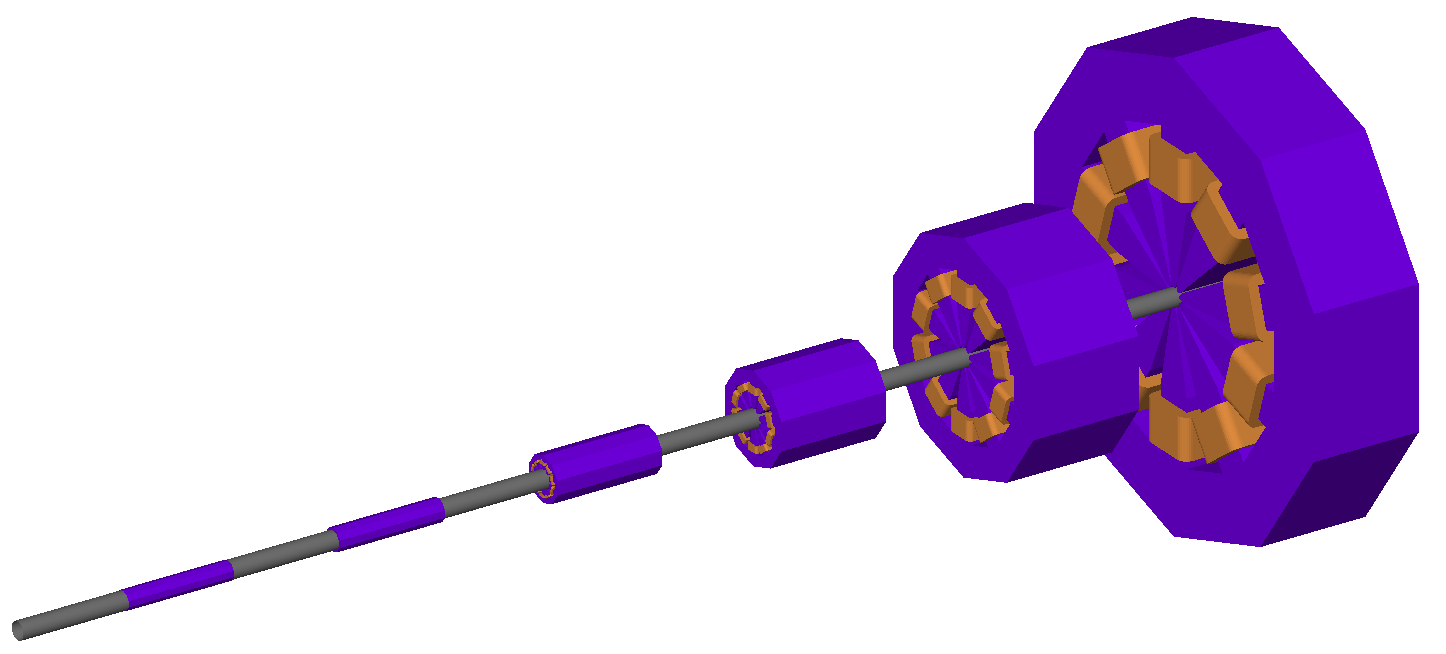
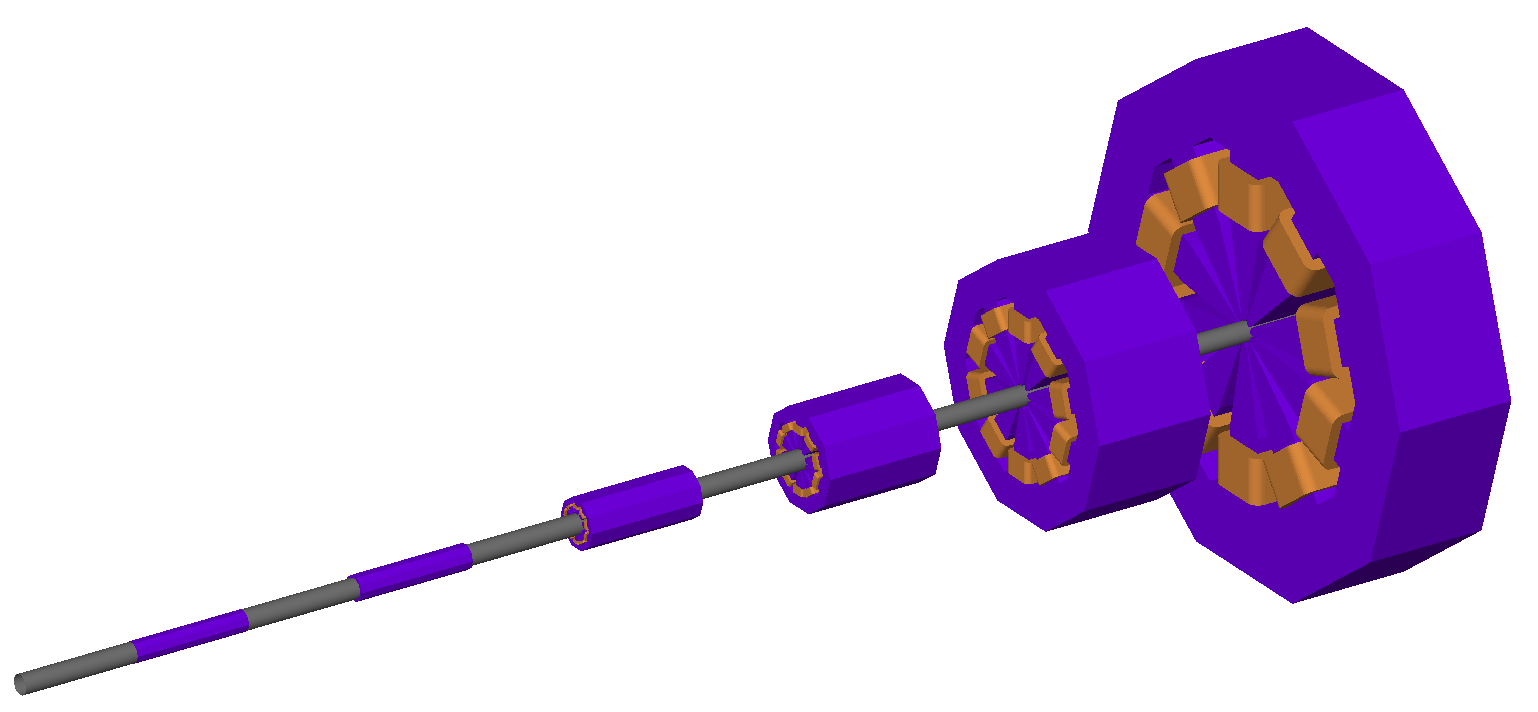
Parameterise the polgon starting angle and offset for pole intersection - fixes location of points in yoke w.r.t. poles. Fix for both facet and facetcrop geometries
Former-commit-id: 58ff85eb7268fc6a7c7e4a286432f23f0f0d6d54

diff --git a/src/BDSMagnetOuterFactoryPolesFacetCommon.cc b/src/BDSMagnetOuterFactoryPolesFacetCommon.cc
@@ -17,6 +17,12 @@ BDSMagnetOuterFactoryPolesFacetCommon::BDSMagnetOuterFactoryPolesFacetCommon(G4d
 BDSMagnetOuterFactoryPolesFacetCommon::~BDSMagnetOuterFactoryPolesFacetCommon()
 {;}
 
+void BDSMagnetOuterFactoryPolesFacetCommon::CalculateStartAngles()
+{
+  polyStartAngle = 0;
+  poleIntersectionStartAngle = -segmentAngle*0.5 - CLHEP::halfpi;
+}
+
 void BDSMagnetOuterFactoryPolesFacetCommon::CreateYokeAndContainerSolid(G4String name,
 									G4double length,
 									G4int    order,
@@ -32,11 +38,11 @@ void BDSMagnetOuterFactoryPolesFacetCommon::CreateYokeAndContainerSolid(G4String
   G4double zeroRadii[2]    = {0,0};
   G4double poleEnd         = yokeStartRadius - lengthSafetyLarge;
   G4double poleEndRadii[2] = {poleEnd,          poleEnd};
-
-  const G4double polyStartAngle = CLHEP::halfpi;
+  
+  CalculateStartAngles();
   
   // The start angle for G4Polyhedra lies on a vertex / point and is at the top
-  // in the positive y direction. 
+  // in the positive y direction.
   yokeSolid = new G4Polyhedra(name + "_yoke_solid",    // name
 			      polyStartAngle,          // start angle
 			      CLHEP::twopi,            // sweep angle
@@ -47,18 +53,15 @@ void BDSMagnetOuterFactoryPolesFacetCommon::CreateYokeAndContainerSolid(G4String
 			      outerRadii);
 
   // pole intersection solid
-  // note the start angle is 0 here instead of polyStartAngle as a pole is always
-  // built upright and then rotated to the correct position.
   poleIntersectionSolid = new G4Polyhedra(name + "_yoke_intersection_solid", // name
-					  segmentAngle*0.5,                  // start angle
+					  poleIntersectionStartAngle,        // start angle
 					  CLHEP::twopi,                      // sweep angle
 					  factor*2*order,                    // number of sides
 					  2,                                 // number of z planes
 					  zPlanesLong,                       // z plane z coordinates
 					  zeroRadii,
 					  poleEndRadii);
-  allSolids.push_back(poleIntersectionSolid);
-					  
+  allSolids.push_back(poleIntersectionSolid);					  
   
   G4double contInnerRadii[2] = {0, 0}; // solid polyhedra
   G4double contOuterRadii[2] = {yokeFinishRadius + lengthSafety, yokeFinishRadius + lengthSafety};

diff --git a/src/BDSMagnetOuterFactoryPolesFacetCrop.cc b/src/BDSMagnetOuterFactoryPolesFacetCrop.cc
@@ -18,3 +18,9 @@ BDSMagnetOuterFactoryPolesFacetCrop::~BDSMagnetOuterFactoryPolesFacetCrop()
 {
   _instance = nullptr;
 }
+
+void BDSMagnetOuterFactoryPolesFacetCrop::CalculateStartAngles()
+{
+  polyStartAngle = segmentAngle*0.25;
+  poleIntersectionStartAngle = -segmentAngle*0.25 - CLHEP::halfpi;
+}
